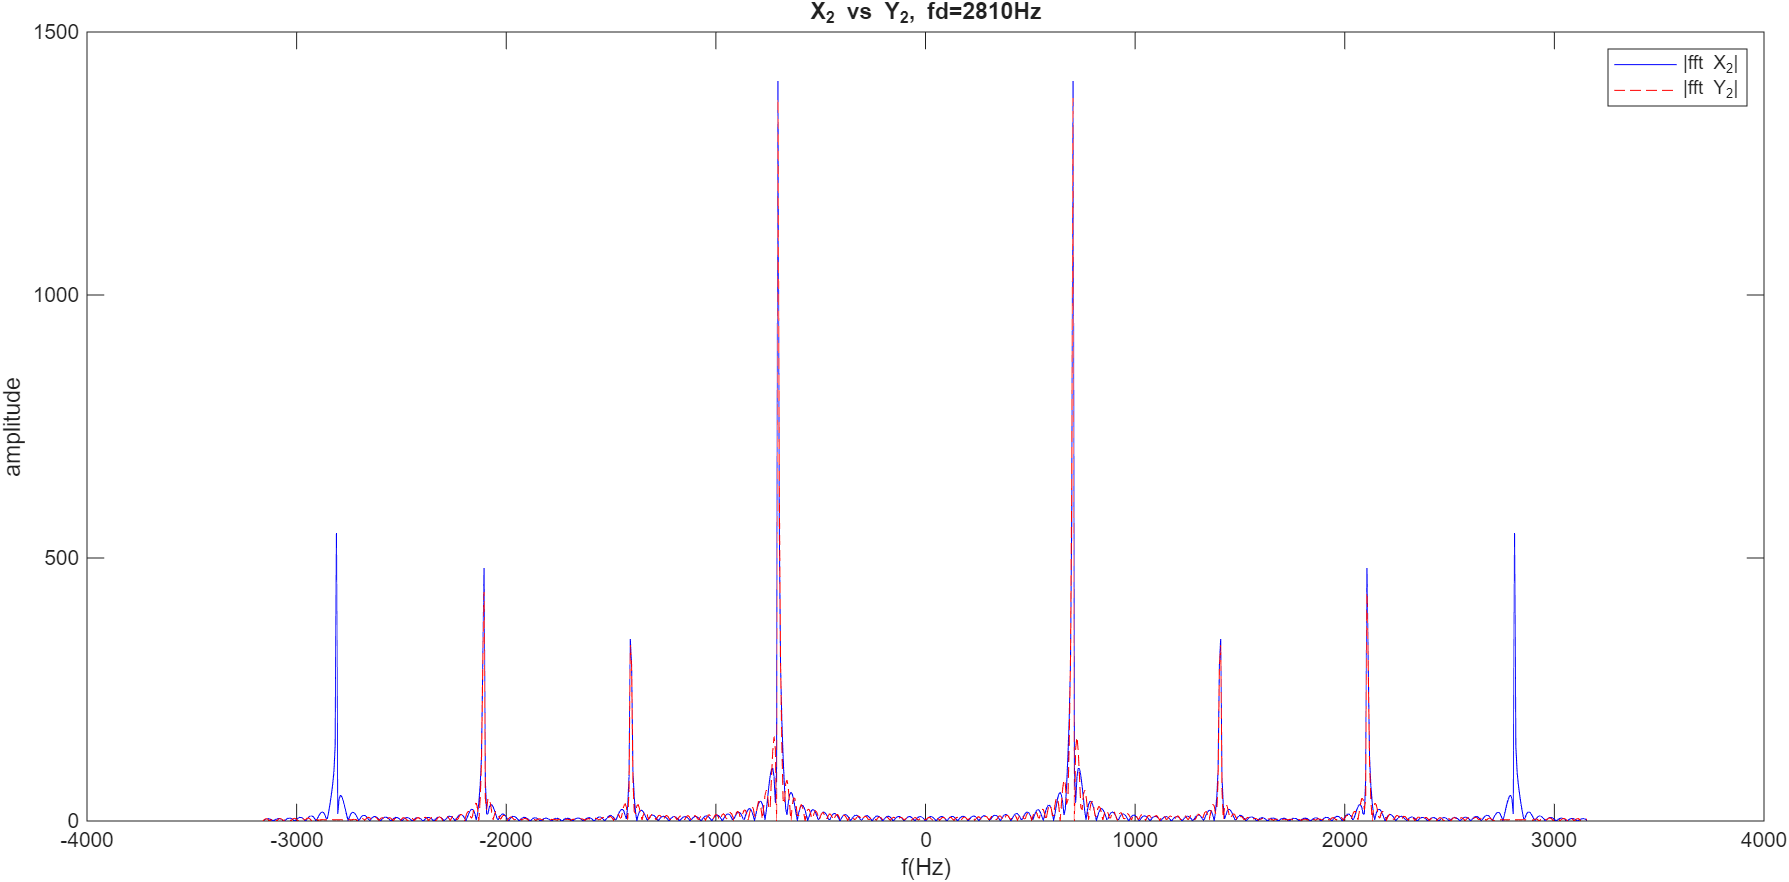
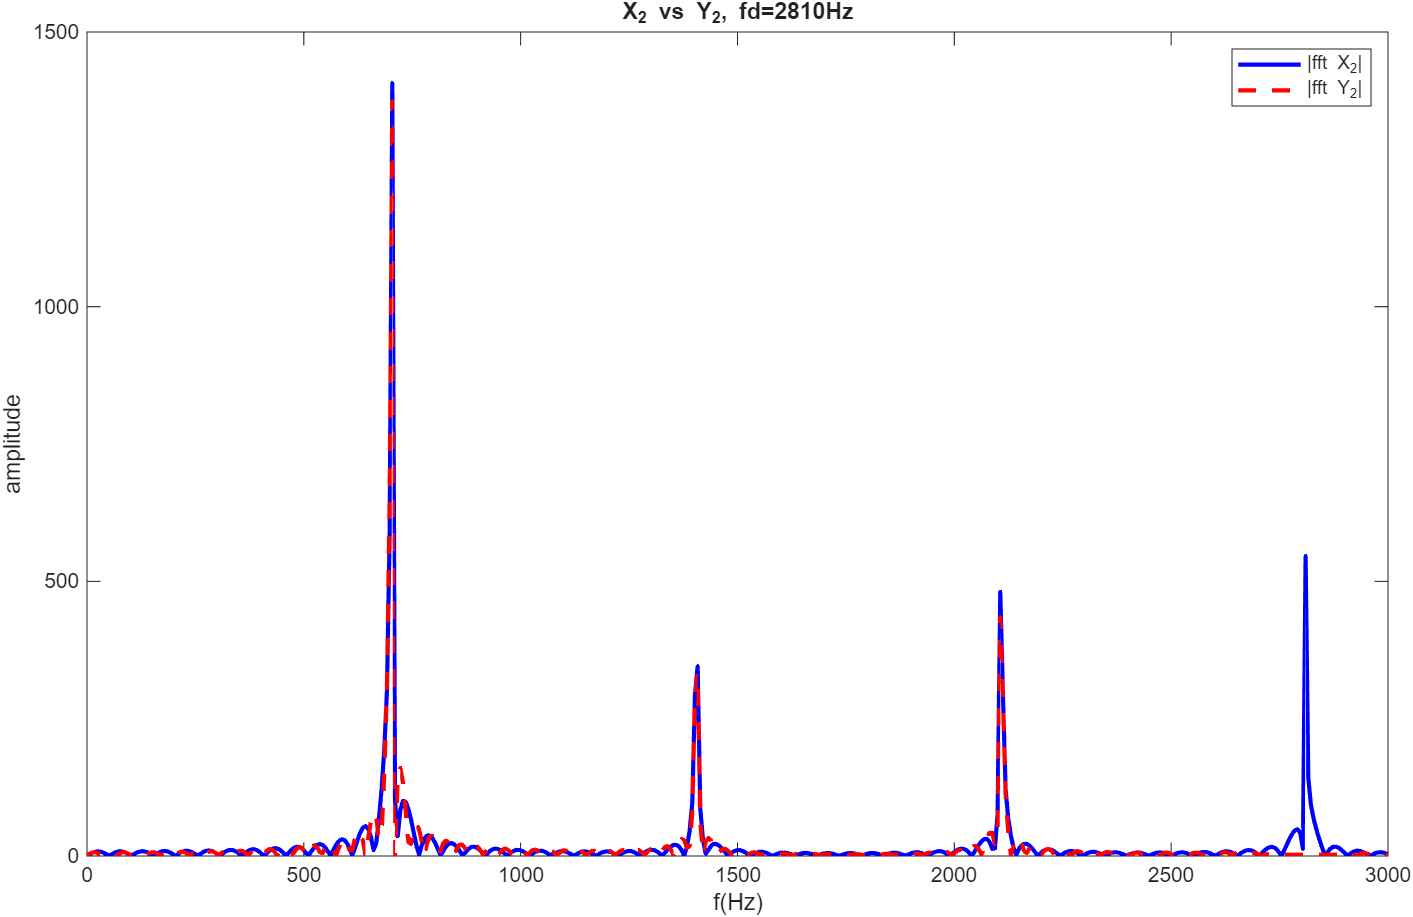
Task one recent c drive

diff --git a/EE580_assignment_1.m b/EE580_assignment_1.m
@@ -5,7 +5,7 @@
 clear;
 u_1=[2,0,2,1,1,2,9,8,5];
 u_2=[2,0,2,1,2,9,6,6,3];
-x1=u_1;
+x1=u_1; 
 x2=u_2;
 
 for i=1:99 %Generate signal with length N=900 samples
@@ -103,17 +103,17 @@ plot(fs/L*(-L/2:L/2-1),abs(fftshift(Y1)));
 title('|fft Y_1[n]|')
 xlabel('f(Hz)')
 ylabel('amplitude')
-
+%%
 %overlay x1 vs bandstop
 figure('Name','x1 vs y1:overlay')
-plot(fs/L*(-L/2:L/2-1),abs(fftshift(X1)),'b');
+plot(fs/L*(-L/2:L/2-1),abs(fftshift(X1)),'b','LineWidth',2);
 hold on;
-plot(fs/L*(-L/2:L/2-1),abs(fftshift(Y1)),'--r');
+plot(fs/L*(-L/2:L/2-1),abs(fftshift(Y1)),'--r','LineWidth',2);
 xlabel('f(Hz)')
 ylabel('amplitude')
 legend('|fft X_1|','|fft Y_1|')
 title('X1 vs Y1, fd=705Hz')
-
+xlim([0 3000]);
 %% Bandstop filtered signal x1[n]
 figure('Name','x2 vs y2')
 tiledlayout(2,1)
@@ -129,27 +129,27 @@ plot(fs/L*(-L/2:L/2-1),abs(fftshift(Y2)));
 title('|fft Y_2|')
 xlabel('f(Hz)')
 ylabel('amplitude')
-
+%%
 %overlay x2 vs bandstop
 figure('Name','x2 vs y2:overlay')
-plot(fs/L*(-L/2:L/2-1),abs(fftshift(X2)),'b');
+plot(fs/L*(-L/2:L/2-1),abs(fftshift(X2)),'b','LineWidth',2);
 hold on;
-plot(fs/L*(-L/2:L/2-1),abs(fftshift(Y2)),'--r');
+plot(fs/L*(-L/2:L/2-1),abs(fftshift(Y2)),'--r','LineWidth',2);
 xlabel('f(Hz)')
 ylabel('amplitude')
 legend('|fft X_2|','|fft Y_2|')
 title('X_2 vs Y_2, fd=2810Hz')
-
+xlim([0 3000]);
 %% time series plots of bandpassed signals
 figure('Name','time series y1, y2')
 tiledlayout(2,1)
 % nexttile
-% plot(t900(401:427)*1000,x1(402:428));
+% plot(t900(401:427)*1000,x1(401:427));
 % title('x_1')
 % xlabel('t(ms)')
 % ylabel('amplitude')
 nexttile
-plot(t900(401:427)*1000,x2(402:428));
+plot(t900(401:427)*1000,x2(401:427));
 title('x_2')
 xlabel('t(ms)')
 ylabel('amplitude')
@@ -171,21 +171,21 @@ ylabel('amplitude')
 figure('Name','time series overlays y1, y2')
 % tiledlayout(1,2)
 % nexttile
-% plot(t900(401:427)*1000,x1(402:428));
-% hold on;
-% plot(t(401:427)*1000,y1(401:427),'--r');
-% grid on;
-% title('x_1 vs y_1')
-% legend('x_1[n]','y_1[n]')
-% xlabel('t(ms)')
-% ylabel('amplitude')
-% nexttile
-plot(t900(401:427)*1000,x2(402:428));
+plot(t900(401:427)*1000,x1(401:427),'-b','LineWidth',2);
 hold on;
-plot(t900(401:427)*1000,y2(401:427),'--r');
+plot(t(401:427)*1000,y1(401:427),'--r','LineWidth',2);
 grid on;
-title('x_2[n] vs y_2[n]')
-legend('x_2[n]','y_2[n]')
+title('x_1 vs y_1')
+legend('x_1[n]','y_1[n]')
 xlabel('t(ms)')
 ylabel('amplitude')
+% nexttile
+% plot(t900(401:427)*1000,x2(401:427),'-b','LineWidth',2);
+% hold on;
+% plot(t900(401:427)*1000,y2(401:427),'--r','LineWidth',2);
+% grid on;
+% title('x_2[n] vs y_2[n]')
+% legend('x_2[n]','y_2[n]')
+% xlabel('t(ms)')
+% ylabel('amplitude')
 %% plot in dBfigure('Name','x2 vs y2, dB')
